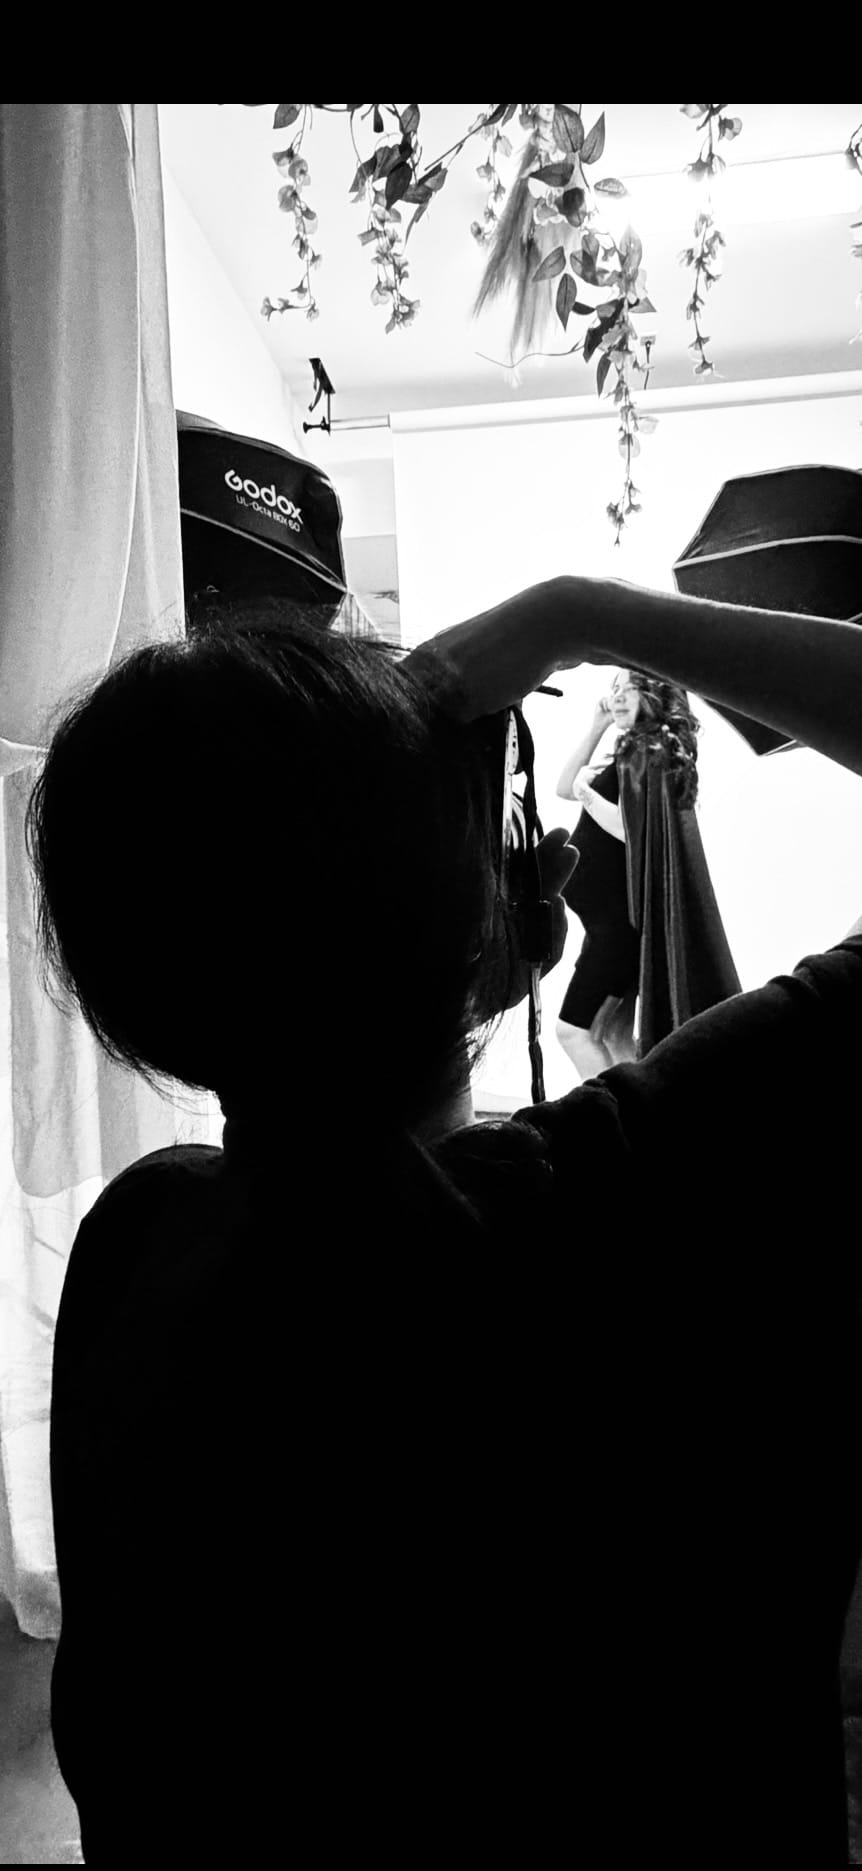
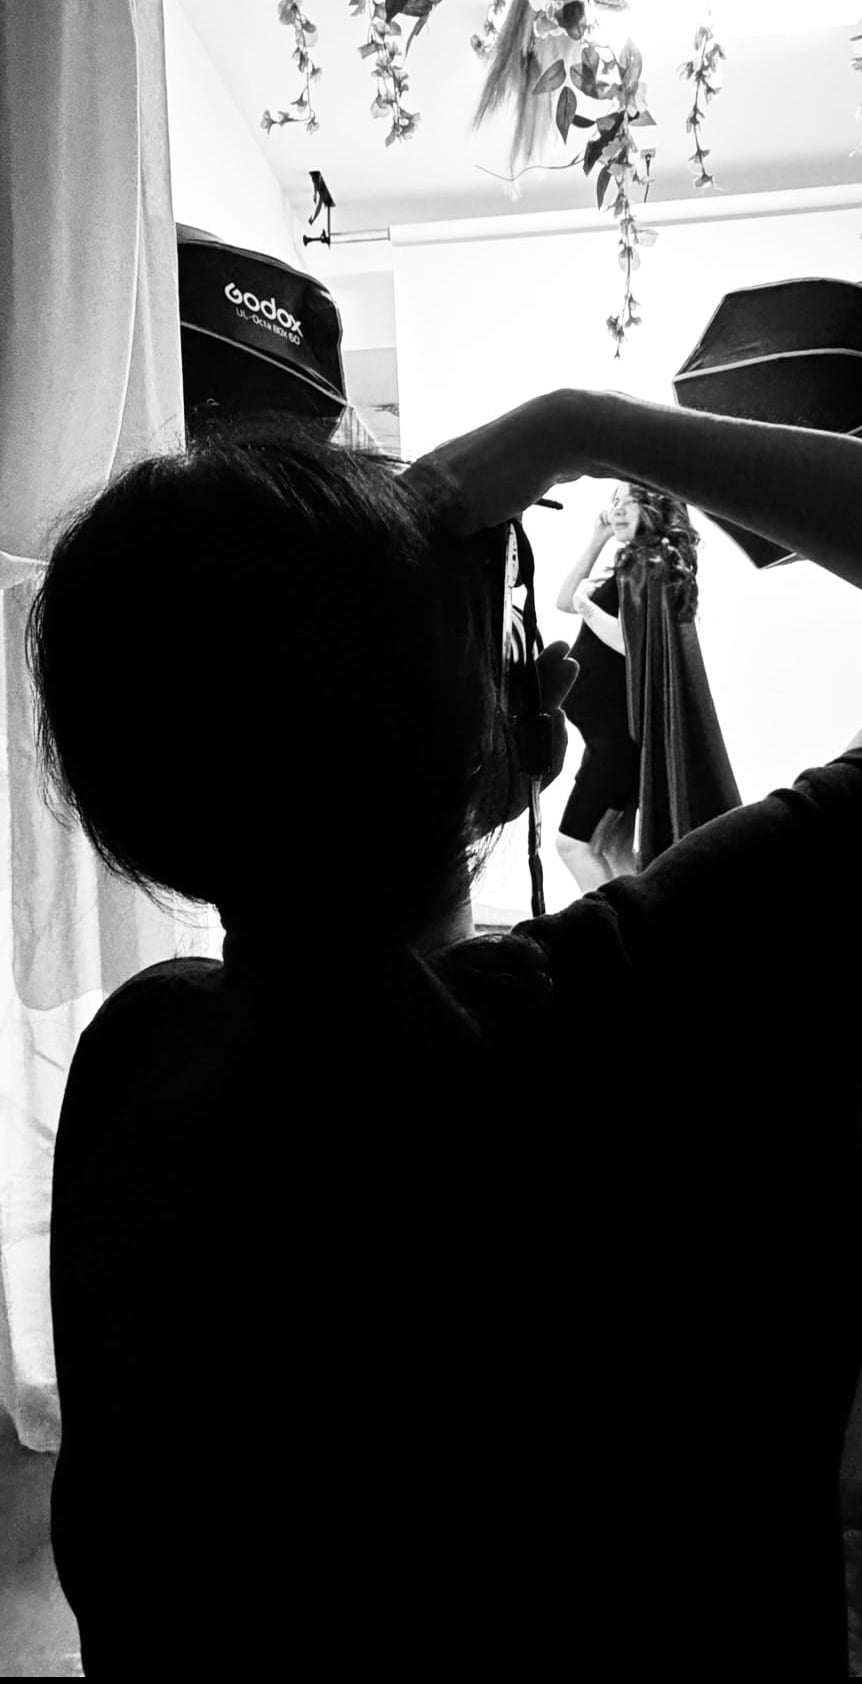
fix(sites): lidi-studio v7 — surgical fixes for layout + black bar
Operator validated v6 in incognito and reported three remaining issues
that the Sprint 5 changes didn't actually solve. This commit addresses
each at the right layer (source image, CSS rule scope, layout uniformity).

1. About page "black rectangle" — fixed at the source

   Diagnosis: bts-shooting.jpg has a NATIVE black band at the top.
   Pixel analysis: top 5% of the source = 100% pixels at brightness < 30,
   avg brightness 1/255. No CSS object-position can hide a band that
   wide without also losing most of the actual content.

   Fix: cropped 10% off the top of the source image (covers the pure
   black band + the dark transition zone), regenerated the AVIF/WebP/JPG
   triplet via sharp. New size 862×1684 (was 862×1871), aspect 0.51
   (was 0.46). The about hero now shows the white ceiling + plant +
   softbox at the top, the maternity subject mid-frame, Lidi's
   silhouette in the foreground — instead of a wall of black.

   Also removed the inline object-position: 22% from the about page;
   the new global rule (see #3) handles all aspect-ratio'd photo-luxe
   images consistently.

2. Stories post hero "subject too low, dark area on left"

   Diagnosis: The Sprint 5 object-position fix only applied to
   .gallery__item .photo-luxe img — story post heroes use
   .photo-luxe[style*="aspect-ratio"] which had no positioning rule,
   so it defaulted to center 50%. Portrait-subject photos cropped
   to 16:10 with center 50% landed on the dark lower portion of the
[…]

diff --git a/sites/lidi-studio/src/en/portfolio/index.html b/sites/lidi-studio/src/en/portfolio/index.html
@@ -50,7 +50,7 @@
       <div class="gallery__item gallery__item--default reveal reveal-d4" data-category="maternity">
         <div class="photo-luxe"><picture><source srcset="/photos/maternity-black.avif" type="image/avif"><source srcset="/photos/maternity-black.webp" type="image/webp"><img src="/photos/maternity-black.jpg" alt="Painterly maternity portrait in dark register, Anchorage Alaska — Lidi Studio" loading="lazy" /></picture></div>
       </div>
-      <div class="gallery__item gallery__item--wide reveal" data-category="maternity">
+      <div class="gallery__item gallery__item--default reveal" data-category="maternity">
         <div class="photo-luxe"><picture><source srcset="/photos/maternity-studio-fine-art-anchorage-alaska-01.avif" type="image/avif"><source srcset="/photos/maternity-studio-fine-art-anchorage-alaska-01.webp" type="image/webp"><img src="/photos/maternity-studio-fine-art-anchorage-alaska-01.jpg" alt="Fine art maternity portrait, Anchorage Alaska — Lidi Studio" loading="lazy" width="1543" height="2400" /></picture></div>
       </div>
       <div class="gallery__item gallery__item--default reveal reveal-d2" data-category="maternity">
@@ -65,7 +65,7 @@
       <div class="gallery__item gallery__item--default reveal reveal-d5" data-category="maternity">
         <div class="photo-luxe"><picture><source srcset="/photos/maternity-studio-fine-art-anchorage-alaska-05.avif" type="image/avif"><source srcset="/photos/maternity-studio-fine-art-anchorage-alaska-05.webp" type="image/webp"><img src="/photos/maternity-studio-fine-art-anchorage-alaska-05.jpg" alt="Fine art maternity portrait, Anchorage Alaska — Lidi Studio" loading="lazy" width="1600" height="2400" /></picture></div>
       </div>
-      <div class="gallery__item gallery__item--wide reveal" data-category="maternity">
+      <div class="gallery__item gallery__item--default reveal" data-category="maternity">
         <div class="photo-luxe"><picture><source srcset="/photos/maternity-studio-fine-art-anchorage-alaska-06.avif" type="image/avif"><source srcset="/photos/maternity-studio-fine-art-anchorage-alaska-06.webp" type="image/webp"><img src="/photos/maternity-studio-fine-art-anchorage-alaska-06.jpg" alt="Fine art maternity portrait, Anchorage Alaska — Lidi Studio" loading="lazy" width="2400" height="1600" /></picture></div>
       </div>
       <div class="gallery__item gallery__item--default reveal reveal-d2" data-category="maternity">
@@ -77,7 +77,7 @@
       <div class="gallery__item gallery__item--default reveal reveal-d4" data-category="maternity">
         <div class="photo-luxe"><picture><source srcset="/photos/maternity-studio-fine-art-anchorage-alaska-09.avif" type="image/avif"><source srcset="/photos/maternity-studio-fine-art-anchorage-alaska-09.webp" type="image/webp"><img src="/photos/maternity-studio-fine-art-anchorage-alaska-09.jpg" alt="Fine art maternity portrait, Anchorage Alaska — Lidi Studio" loading="lazy" width="1600" height="2400" /></picture></div>
       </div>
-      <div class="gallery__item gallery__item--wide reveal" data-category="maternity">
+      <div class="gallery__item gallery__item--default reveal" data-category="maternity">
         <div class="photo-luxe"><picture><source srcset="/photos/maternity-studio-fine-art-anchorage-alaska-11.avif" type="image/avif"><source srcset="/photos/maternity-studio-fine-art-anchorage-alaska-11.webp" type="image/webp"><img src="/photos/maternity-studio-fine-art-anchorage-alaska-11.jpg" alt="Fine art maternity portrait, Anchorage Alaska — Lidi Studio" loading="lazy" width="2400" height="1600" /></picture></div>
       </div>
       <div class="gallery__item gallery__item--default reveal reveal-d2" data-category="maternity">
@@ -93,7 +93,7 @@
         <div class="photo-luxe"><picture><source srcset="/photos/maternity-studio-fine-art-anchorage-alaska-15.avif" type="image/avif"><source srcset="/photos/maternity-studio-fine-art-anchorage-alaska-15.webp" type="image/webp"><img src="/photos/maternity-studio-fine-art-anchorage-alaska-15.jpg" alt="Fine art maternity portrait, Anchorage Alaska — Lidi Studio" loading="lazy" width="2400" height="1600" /></picture></div>
       </div>
 
-      <div class="gallery__item gallery__item--wide reveal" data-category="newborn">
+      <div class="gallery__item gallery__item--default reveal" data-category="newborn">
         <div class="photo-luxe"><picture><source srcset="/photos/newborn-mother.avif" type="image/avif"><source srcset="/photos/newborn-mother.webp" type="image/webp"><img src="/photos/newborn-mother.jpg" alt="Fine art newborn portrait with mother in soft light, Anchorage Alaska — Lidi Studio" loading="lazy" /></picture></div>
       </div>
       <div class="gallery__item gallery__item--default reveal reveal-d2" data-category="newborn">
@@ -108,7 +108,7 @@
       <div class="gallery__item gallery__item--default reveal reveal-d5" data-category="newborn">
         <div class="photo-luxe"><picture><source srcset="/photos/newborn-dad.avif" type="image/avif"><source srcset="/photos/newborn-dad.webp" type="image/webp"><img src="/photos/newborn-dad.jpg" alt="Newborn portrait with father in painterly light, Anchorage Alaska — Lidi Studio" loading="lazy" /></picture></div>
       </div>
-      <div class="gallery__item gallery__item--wide reveal" data-category="newborn">
+      <div class="gallery__item gallery__item--default reveal" data-category="newborn">
         <div class="photo-luxe"><picture><source srcset="/photos/newborn-studio-portrait-anchorage-alaska-01.avif" type="image/avif"><source srcset="/photos/newborn-studio-portrait-anchorage-alaska-01.webp" type="image/webp"><img src="/photos/newborn-studio-portrait-anchorage-alaska-01.jpg" alt="Editorial newborn portrait, Anchorage Alaska — Lidi Studio" loading="lazy" width="1600" height="2400" /></picture></div>
       </div>
       <div class="gallery__item gallery__item--default reveal reveal-d2" data-category="newborn">
@@ -123,7 +123,7 @@
       <div class="gallery__item gallery__item--default reveal reveal-d5" data-category="newborn">
         <div class="photo-luxe"><picture><source srcset="/photos/newborn-studio-portrait-anchorage-alaska-05.avif" type="image/avif"><source srcset="/photos/newborn-studio-portrait-anchorage-alaska-05.webp" type="image/webp"><img src="/photos/newborn-studio-portrait-anchorage-alaska-05.jpg" alt="Editorial newborn portrait, Anchorage Alaska — Lidi Studio" loading="lazy" width="2400" height="1600" /></picture></div>
       </div>
-      <div class="gallery__item gallery__item--wide reveal" data-category="newborn">
+      <div class="gallery__item gallery__item--default reveal" data-category="newborn">
         <div class="photo-luxe"><picture><source srcset="/photos/newborn-studio-portrait-anchorage-alaska-06.avif" type="image/avif"><source srcset="/photos/newborn-studio-portrait-anchorage-alaska-06.webp" type="image/webp"><img src="/photos/newborn-studio-portrait-anchorage-alaska-06.jpg" alt="Editorial newborn portrait, Anchorage Alaska — Lidi Studio" loading="lazy" width="2400" height="1600" /></picture></div>
       </div>
       <div class="gallery__item gallery__item--default reveal reveal-d2" data-category="newborn">
@@ -139,7 +139,7 @@
         <div class="photo-luxe"><picture><source srcset="/photos/newborn-studio-portrait-anchorage-alaska-10.avif" type="image/avif"><source srcset="/photos/newborn-studio-portrait-anchorage-alaska-10.webp" type="image/webp"><img src="/photos/newborn-studio-portrait-anchorage-alaska-10.jpg" alt="Editorial newborn portrait, Anchorage Alaska — Lidi Studio" loading="lazy" width="1600" height="2400" /></picture></div>
       </div>
 
-      <div class="gallery__item gallery__item--wide reveal" data-category="family">
+      <div class="gallery__item gallery__item--default reveal" data-category="family">
         <div class="photo-luxe"><picture><source srcset="/photos/newborn-family-beige.avif" type="image/avif"><source srcset="/photos/newborn-family-beige.webp" type="image/webp"><img src="/photos/newborn-family-beige.jpg" alt="Composed family portrait in painter's tradition, Anchorage Alaska — Lidi Studio" loading="lazy" /></picture></div>
       </div>
     </div>

diff --git a/sites/lidi-studio/public/styles.css b/sites/lidi-studio/public/styles.css
@@ -1084,12 +1084,15 @@ img{ display:block; max-width:100%; }
 /* CLS fix (Sprint 2 audit B2/B3): when .photo-luxe declares an aspect-ratio
    (inline style or via .story-card etc.), force the image to fill the
    reserved box so the layout doesn't shift between empty placeholder and
-   loaded image. */
+   loaded image. Sprint 6: also anchor object-position to upper third for
+   portrait subjects, matching the gallery rule. Story post hero images
+   inherit this. About hero overrides via inline style. */
 .photo-luxe[style*="aspect-ratio"] img,
 .photo-luxe[style*="aspect-ratio"] picture img{
   width: 100%;
   height: 100%;
   object-fit: cover;
+  object-position: center 28%;
 }
 .photo-luxe::after{
   content: '';
@@ -1537,11 +1540,11 @@ img{ display:block; max-width:100%; }
   display: grid;
   grid-template-columns: 1fr 1fr 1fr 1fr;
   gap: var(--s-2);
-  /* Sprint 5 audit: pack wide/tall items into the gaps left by default-sized
-     items so the grid doesn't trail off-axis when an item like --wide
-     can't fit at end-of-row. Without dense, you get visible holes that
-     read as "shifted right". */
-  grid-auto-flow: row dense;
+  /* Sprint 6 audit: every gallery item is now --default (uniform 4:5)
+     except the one --full hero. With uniform rows, dense isn't needed
+     and was actually causing the perceived "right-shift" by reordering
+     items. */
+  grid-auto-rows: auto;
 }
 @media (max-width: 720px){
   .portfolio-gallery{ grid-template-columns: 1fr 1fr; }
@@ -1551,7 +1554,11 @@ img{ display:block; max-width:100%; }
 }
 .gallery__item--wide{ grid-column: span 2; aspect-ratio: 4 / 3; }
 .gallery__item--tall{ grid-row: span 2; aspect-ratio: 3 / 4; }
-.gallery__item--full{ grid-column: 1 / -1; aspect-ratio: 21 / 9; }
+/* Sprint 6 audit: --full was 21/9 — too aggressive for the available portrait
+   sources (cropped them to a thin horizontal band, often landing on the dark
+   background area of the gown). 3/2 matches maternity-red.jpg (1536x1024) and
+   shows the full image without cropping the subject. */
+.gallery__item--full{ grid-column: 1 / -1; aspect-ratio: 3 / 2; }
 .gallery__item--default{ aspect-ratio: 4 / 5; }
 .gallery__item .photo-luxe{ height: 100%; }
 .gallery__item .photo-luxe img,

diff --git a/sites/lidi-studio/src/en/about/index.html b/sites/lidi-studio/src/en/about/index.html
@@ -30,10 +30,11 @@
         <picture>
           <source srcset="/photos/bts-shooting.avif" type="image/avif">
           <source srcset="/photos/bts-shooting.webp" type="image/webp">
-          <img src="/photos/bts-shooting.jpg" alt="Lidi at work — fine art portrait session in Anchorage Alaska" loading="lazy" style="object-position: center 22%;" />
+          <img src="/photos/bts-shooting.jpg" alt="Lidi at work — fine art portrait session in Anchorage Alaska" loading="lazy" />
         </picture>
       </div>
-      <!-- REVIEW: bts-shooting.jpg shows Lidi from behind silhouetted; bottom of frame is a dark mass. Aspect ratio + object-position chosen to favor the upper half (background subject + softbox visible). Operator may want to swap this for a better portrait of Lidi for the about hero. -->
+      <!-- bts-shooting.jpg was cropped at source in Sprint 6 to remove a native black bar at the top of the frame. Object-position is now handled by the global .photo-luxe[aspect-ratio] rule (center 28%). Operator may still want to swap this image for a proper portrait of Lidi for the about hero. -->
+
 
     </div>
   </section>
